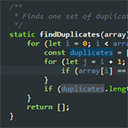
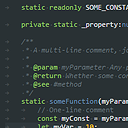
Updated store previews

diff --git a/CHANGELOG.md b/CHANGELOG.md
@@ -1,5 +1,15 @@
 # Changelog
 
+## 2.0.0
+
+* Added several missing scopes (e.g. local variables)
+* Fixed colors that were different from original Obsidian
+* HTML rendering now uses Obsidian colors
+
+This was a major update, so users probably need to re-select "(Actual) Obsidian" from the menu. Apologies for that.
+
+The previous version of the theme is available as "(Actual) Obsidian (legacy)", for anyone who's too used to the previous version.
+
 ## 1.4.2
 
 * Updated store previews.

diff --git a/README.md b/README.md
@@ -8,6 +8,8 @@ The theme file itself has been mostly based on [the work of Marcus Ekwall for Te
 
 ![Preview](preview.png)
 
+![Preview (HTML)](preview-html.png)
+
 ## Installing
 
 In Visual Studio Code, press Ctrl/Command+P and enter `ext install theme-actual-obsidian`, or search for "Obsidian" in the Extension tab and pick "(Actual) Obsidian".
